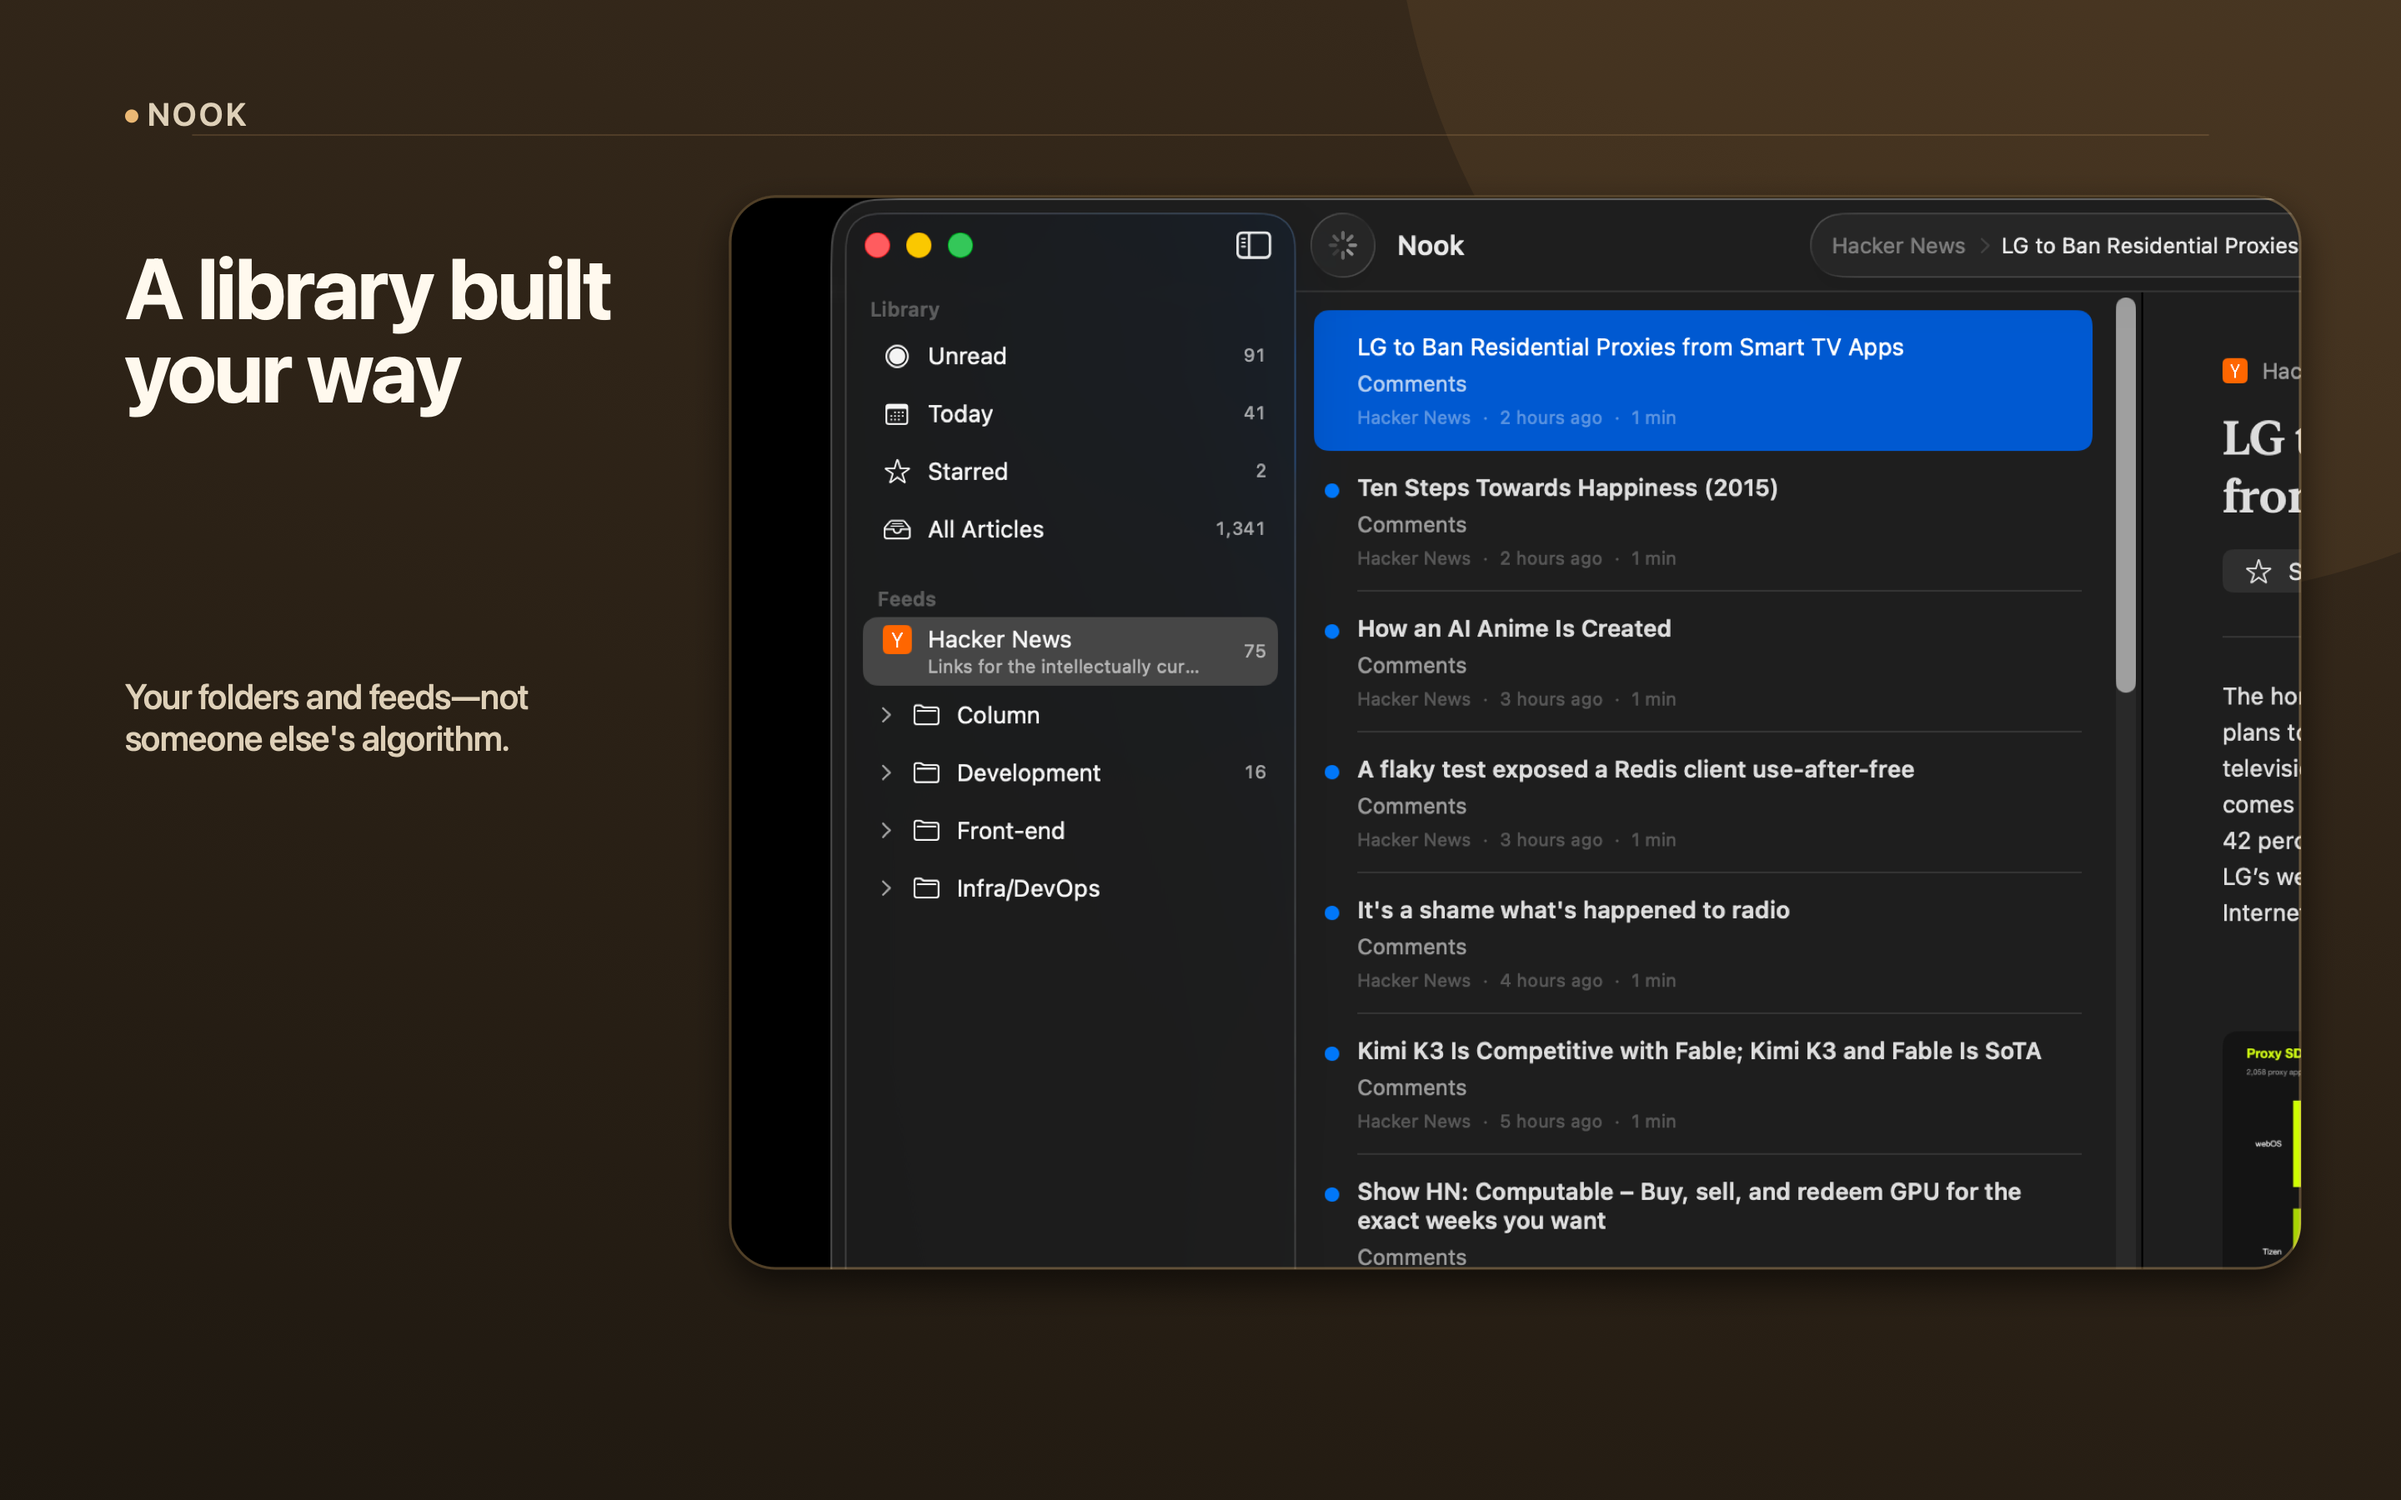
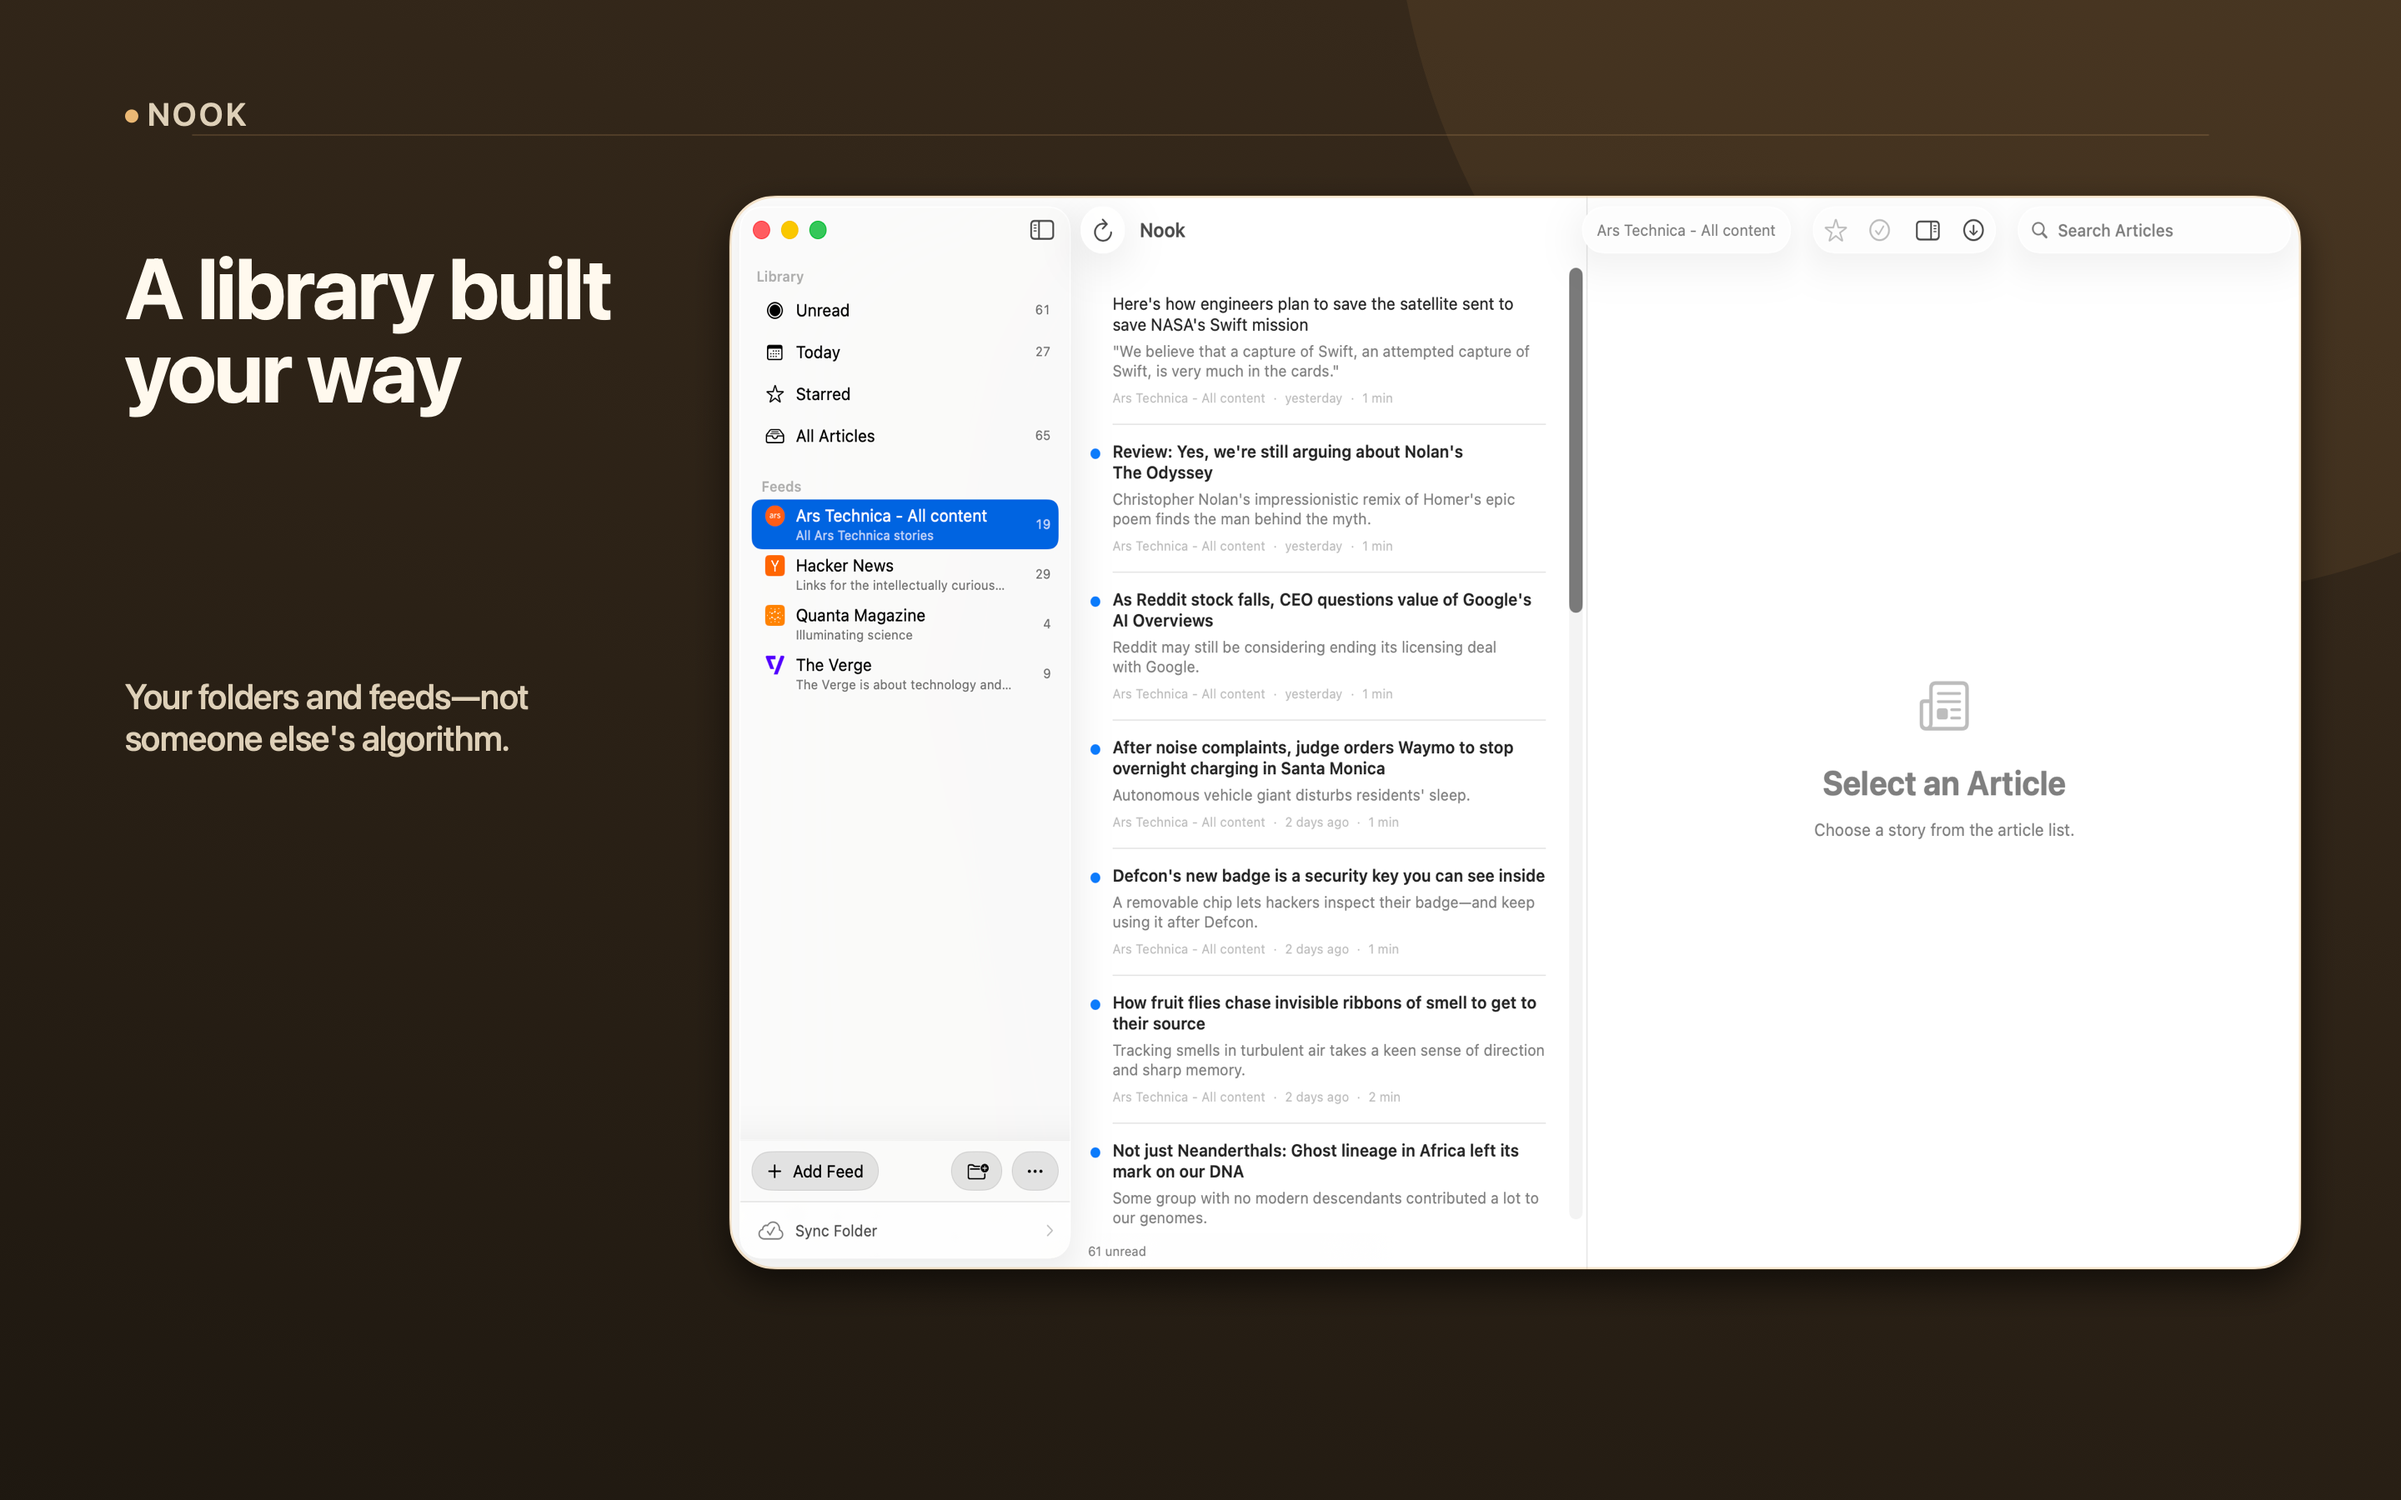
feat: capture the Mac slides from the real app
The three macOS slides were crops of one placeholder screenshot. Capture the
installed app instead, once per language, from a reset local library whose
feeds were subscribed through the app's own Add Feed sheet.

Driving it needed two tools. agent-device reads this app's accessibility tree
accurately, but its text entry sends keystrokes that minimize the window when a
sheet's field is not focused; AppleScript sets the field's value directly but
needs Accessibility, which belongs to the asking process — so the script runs
from its own applet holding that grant. Captures go through screencapture -l on
the window's CGWindowID, which also works on a background window: an earlier
full-screen capture had put unrelated desktop content into the frame.

The reader frame is dropped. It needs the sidebar and inspector hidden, and
those toggles are titled in English only, so ko and zh-Hans captured the
overview twice — two distinct frames per language beat three with a duplicate.
Japanese has no Mac captures yet and falls back to source.

diff --git a/marketing/app-store/check-window.swift b/marketing/app-store/check-window.swift
@@ -1,0 +1,21 @@
+import CoreGraphics
+import Foundation
+
+// Prints the CGWindowID of the frontmost on-screen window owned by the named
+// application, so screencapture -l can grab that window and nothing else.
+let owner = CommandLine.arguments.count > 1 ? CommandLine.arguments[1] : "Nook"
+guard let windows = CGWindowListCopyWindowInfo([.optionOnScreenOnly, .excludeDesktopElements], kCGNullWindowID) as? [[String: Any]] else {
+    exit(1)
+}
+for window in windows {
+    guard let name = window[kCGWindowOwnerName as String] as? String, name == owner,
+        let bounds = window[kCGWindowBounds as String] as? [String: Any],
+        let width = bounds["Width"] as? Double, let height = bounds["Height"] as? Double,
+        width > 400, height > 300,
+        let id = window[kCGWindowNumber as String] as? Int
+    else { continue }
+    print(id)
+    exit(0)
+}
+FileHandle.standardError.write(Data("no window for \(owner)\n".utf8))
+exit(1)

diff --git a/marketing/app-store/README.md b/marketing/app-store/README.md
@@ -63,6 +63,57 @@ Every set starts from an erased device, so the lists hold real feed content and 
 
 Turn "Translate titles in the list" off (Settings › Experimental) before capturing a locale whose feeds are already in that language, then clear the translation cache. With nothing to translate, every row keeps a "Translating…" badge.
 
+## Capture the Mac app
+
+The Mac app has no simulator, so its captures come from the installed app driven
+through accessibility. Two tools split the work because each is only reliable at
+one half of it:
+
+- `agent-device` reads this app's accessibility tree accurately and clicks a ref
+  taken from the snapshot immediately before the click. Never click by label —
+  a label that fails to match can land on a neighbouring window button, and
+  "minimize" is one of them.
+- Its text entry sends keystrokes, which land on the window when a sheet's field
+  is not focused and minimize it. Set the field's value through AppleScript
+  instead: `set value of text field 1 of group 1 of sheet 1 of window 1`.
+
+AppleScript needs Accessibility, and that permission belongs to the *process*
+that asks. A shell inherits the terminal's, which is usually denied, so wrap the
+script in its own applet and grant that once:
+
+```sh
+osacompile -o NookAXRunner.app runner.applescript   # runner does: run script <file>
+open NookAXRunner.app                                # prompts as "NookAXRunner"
+```
+
+The app reads its language and storage from launch arguments, not preferences —
+it rewrites its own defaults as it quits, so anything set beforehand is lost:
+
+```sh
+open -a /Applications/Nook.app --args -AppleLanguages '(ja)' -appLanguage ja \
+  -usesLocalLibrary 1 -translateListTitles 0 -translateTitlesPromoSeen 1
+```
+
+`-appLanguage` matters as much as `-AppleLanguages`: dates format from the stored
+preference, so without it an English UI still prints Korean dates. Pass
+`-translateTitlesPromoSeen 1` or the translation promo covers the window and every
+click misses. Each language is one uninterrupted run: the override lives only in
+that process, and a second script attaching later may find a different instance.
+
+Capture the window, never the screen:
+
+```sh
+screencapture -x -o -l "$(xcrun swift check-window.swift Nook)" out.png
+```
+
+`-l` takes a CGWindowID and works on a background window, so nothing has to come
+forward — and nothing else on the desktop can end up in a public asset.
+
+Known gap: the reader frame needs the sidebar and inspector hidden, and those
+toggles are titled in English only, so a non-English run captures the overview
+twice. The Mac set is therefore two frames per language. Japanese has no Mac
+captures yet and falls back to `source`.
+
 ## Check before publishing
 
 ```sh
